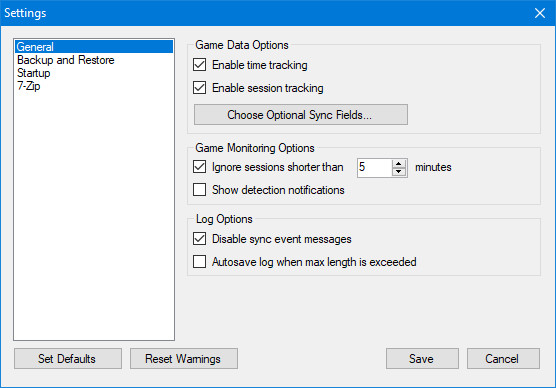
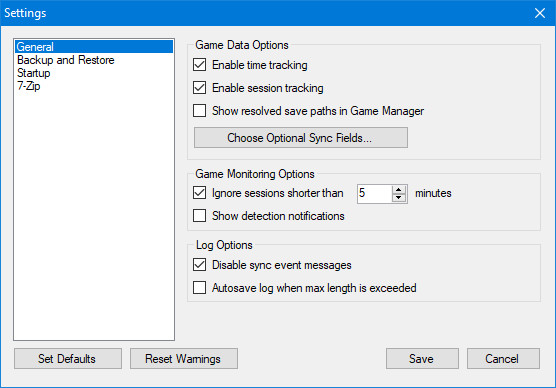
Updated manual for v115

Changed region(s): [[0.3363, 0.2474, 0.8255, 0.7732]]

diff --git a/manual.html b/manual.html
@@ -30,10 +30,10 @@
       <div id="leftcontent">
         <div class="pageSection">
           <div class="pageSectionHeader">
-            Game Backup Monitor v1.1.3 Manual
+            Game Backup Monitor v1.1.5 Manual
           </div>
           <div class="pageSectionContent">
-            <h3 class="notop">Updated July 4th, 2018</h3>
+            <h3 class="notop">Updated October 10, 2018</h3>
             <h3>Disclaimer:</h3>
             <p>This manual may contain information about features not available in the current stable release.</p>
             <p>If you are having a specific problem, please check the <a href="https://github.com/MikeMaximus/gbm/issues">issues</a> list.</p>
@@ -147,6 +147,8 @@
             <p>GBM will record and display game session times when this is enabled. When it's disabled no time data is recorded or displayed. Toggling this setting has no effect on time data that's already been recorded.</p>
             <h4>Enable session tracking:</h4>
             <p>GBM will record individual session data when this is enabled.  Toggling this setting has no effect on session data that's already been recorded.</p>            
+            <h4>Show resolved save paths in Game Manager:</h4>
+            <p>When enabled, GBM will display save paths resolved to the location on the current system, such as "C:\Users\User1\Saved Games\kingdomcome\saves".  When disabled, GBM will display save paths with environment variables when applicable,  such as "%USERPROFILE%\Saved Games\kingdomcome\saves".  Save Path fields on the Game Manager will display a tooltip with the resolved path or unresolved path depending on this setting.  
             <h4>Choose Optional Fields:</h4>
             <p>Use this button to choose any extra data you'd like to keep in sync between computers.  Fields such as Game Path and Icon are not recommended because they may be different on each PC.</p>
             <h4>Ignore sessions shorter than X minutes:</h4>
@@ -335,6 +337,19 @@
             <p>This displays the backup file name and file size.</p>
             <h4>Restore Path:</h4>
             <p>This displays the location the backup file will restore to, this may be an absolute or relative path.</p>
+            <h4>Import Backup Files:</h4>
+            <p>GBM allows importing one or more 7-Zip backup files for the selected game.  This feature is useful if you lost your GBM database(s), but not the backup files.  It also can be used to easily move compatible saved game backups between Windows and Linux.
+            <ul>
+              <li>Importing a single backup file will attempt to overwrite the current backup file if one exists. Enable "Save Multiple Backups" if you don't want to overwrite the current backup.</li>
+              <li>Importing multiple backup files requires "Save Multple Backups" to be enabled .</li>
+              <li>GBM currently cannot verify that the backup files being imported are compatible with the current configuration.  It's up to the user to import compatible files.</li>
+            </ul></p>
+            <h4>Delete Backup:</h4>
+            <p>This allows deleting the currently selected backup or all backups for the selected game.</p>
+            <h4>Open Backup File:</h4>
+            <p>This opens the selected backup file in the default software associated with 7-Zip files.</p>
+            <h4>Open Restore Path:</h4>
+            <p>This automatically opens the backup's restore path in the default file browser software.</p>
           </div>
           <div class="pageSectionFooter">
             <a href="#toc">Back to Contents</a>
